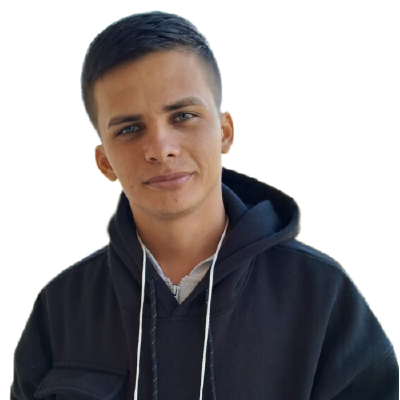
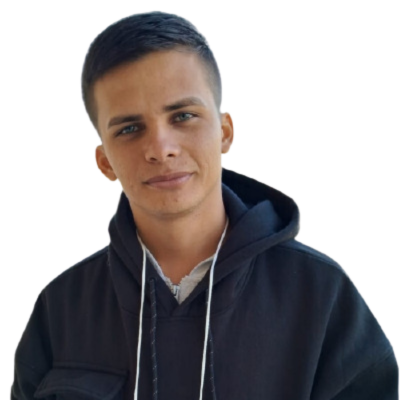
adicionando rota para link, whatsApp, instagram, linkedin

diff --git a/todos/templates/todos/home.html b/todos/templates/todos/home.html
@@ -8,7 +8,7 @@
   <!-- Bootstrap CSS -->
   <link href="https://cdn.jsdelivr.net/npm/bootstrap@5.3.3/dist/css/bootstrap.min.css" rel="stylesheet">
   <!-- Seu CSS personalizado -->
-  <link rel="stylesheet" href="{% static 'css/home/home.css' %}">
+  <!-- <link rel="stylesheet" href="{% static 'css/home/home.css' %}"> -->
   <title>Home</title>
 </head>
 
@@ -28,7 +28,7 @@
       <div class="collapse navbar-collapse" id="navbarSupportedContent">
         <ul class="navbar-nav me-auto mb-2 mb-lg-0">
           <li class="nav-item">
-            <a class="nav-link active" aria-current="page" href="{% url 'home' %}">Home</a>
+            <a class="nav-link active" aria-current="page" href="#">Home</a>
           </li>
           <li class="nav-item">
             <a class="nav-link" href="{% url 'projetos' %}">Projetos</a>
@@ -38,9 +38,9 @@
               Contato
             </a>
             <ul class="dropdown-menu">
-              <li><a class="dropdown-item" href="#">WhatsApp</a></li>
-              <li><a class="dropdown-item" href="#">Linkedin</a></li>
-              <li><a class="dropdown-item" href="#">Instagram</a></li>
+              <li><a class="dropdown-item" href="{% url 'whatsapp' %}">WhatsApp</a></li>
+              <li><a class="dropdown-item" href="{% url 'linkedin' %}" target="_blank">Linkedin</a></li>
+              <li><a class="dropdown-item" href="{% url 'instagram' %}">Instagram</a></li>
               <li>
                 <hr class="dropdown-divider">
               </li>
@@ -60,7 +60,7 @@
   </nav>
 
 
-  <img src="{% static 'assents/eu.pn' %}" class="rounded mx-auto d-block" alt="...">
+  <img src="{% static 'assents/eu.png' %}" class="rounded mx-auto d-block" alt="...">
 
   <br>
   <main class="container">

diff --git a/setup/urls.py b/setup/urls.py
@@ -1,25 +1,15 @@
-"""
-URL configuration for setup project.
 
-The `urlpatterns` list routes URLs to views. For more information please see:
-    https://docs.djangoproject.com/en/5.0/topics/http/urls/
-Examples:
-Function views
-    1. Add an import:  from my_app import views
-    2. Add a URL to urlpatterns:  path('', views.home, name='home')
-Class-based views
-    1. Add an import:  from other_app.views import Home
-    2. Add a URL to urlpatterns:  path('', Home.as_view(), name='home')
-Including another URLconf
-    1. Import the include() function: from django.urls import include, path
-    2. Add a URL to urlpatterns:  path('blog/', include('blog.urls'))
-"""
 from django.contrib import admin
 from django.urls import path
-from todos.views import home, projetos
+from todos.views import home, projetos, linkedin,instagram, whatsapp
 
 urlpatterns = [
     path('admin/', admin.site.urls),
     path('', home, name='home'),
     path('projetos/', projetos, name='projetos'),
+    path('linkedin/', linkedin, name='linkedin'),
+    path('instagram/', instagram, name='instagram'),
+    path('whatsapp/', whatsapp, name='whatsapp'),
+
+   
 ]

diff --git a/todos/views.py b/todos/views.py
@@ -1,7 +1,20 @@
-from django.shortcuts import render
+from django.shortcuts import render, redirect
 
 def home(request):
     return render(request, 'todos/home.html')
 
 def projetos(request):
     return render(request, 'todos/projetos.html')
+
+def linkedin(request):
+    linkedin = 'https://www.linkedin.com/in/ermeson-balbinot/'
+    return redirect(linkedin)
+
+def instagram(request):
+    instagram = 'https://www.instagram.com/ermesonbalbinot/'
+    return redirect(instagram)
+
+def whatsapp(request):
+    whatsapp = 'https://wa.me/qr/OKMH27RO567BB1'
+    return redirect(whatsapp)
+
